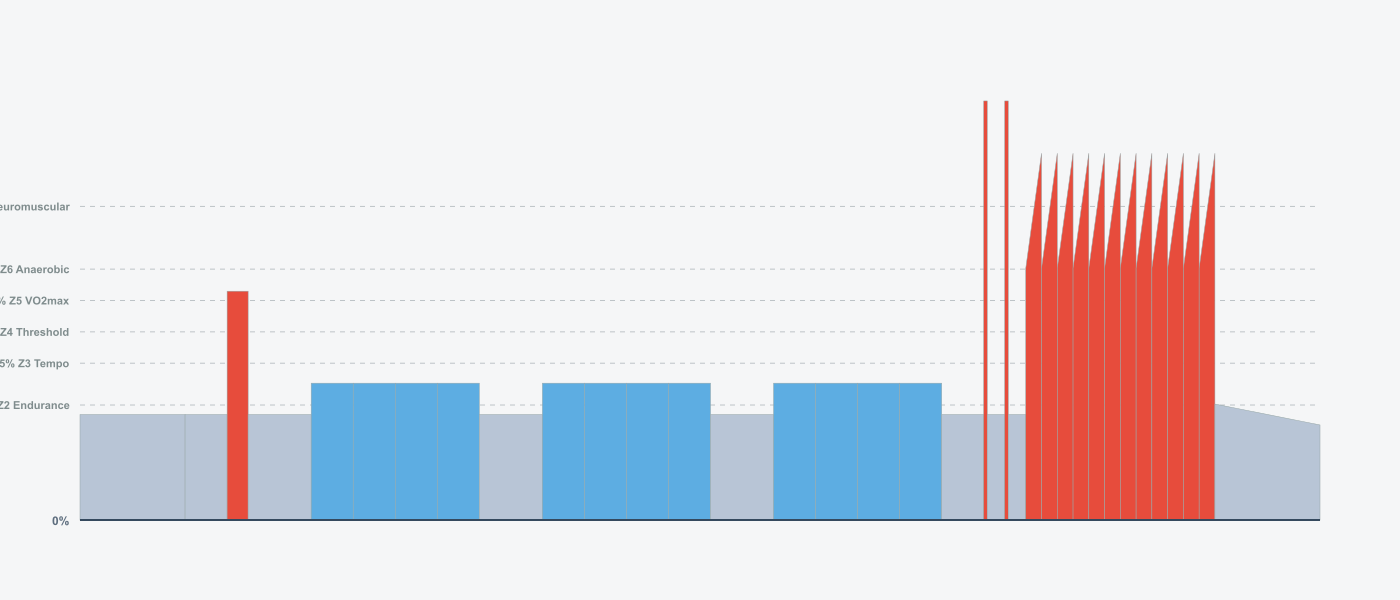
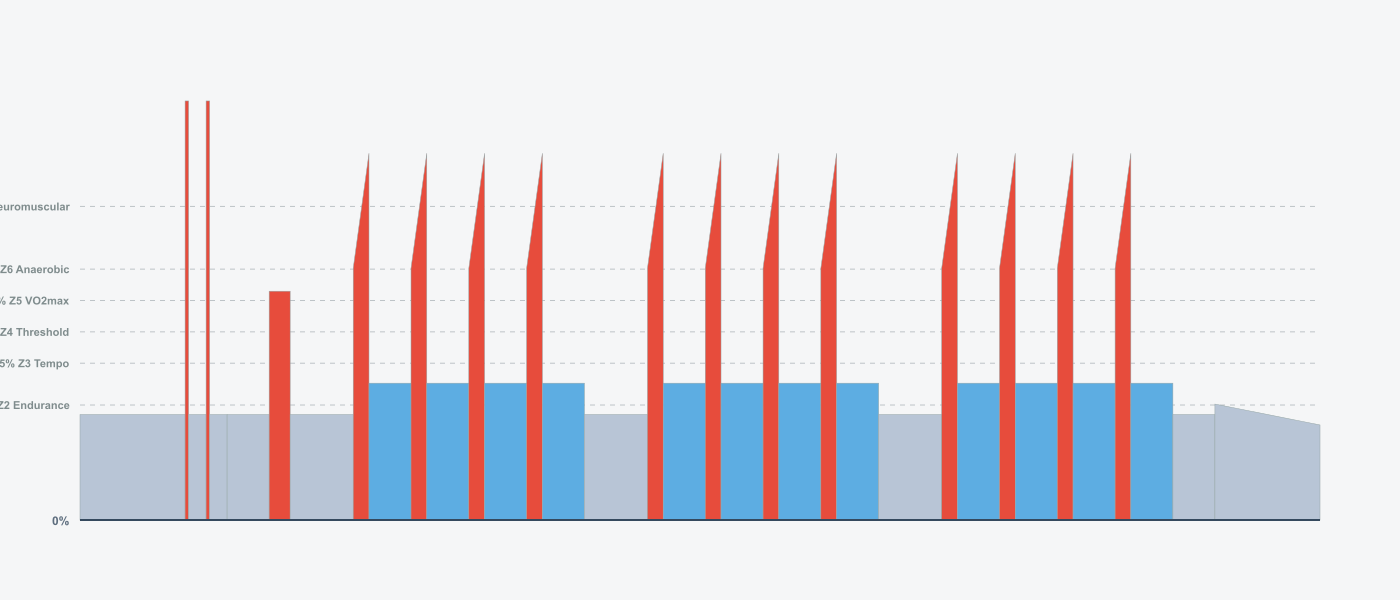
OnDuration# * Why was this change necessary?

Changed region(s): [[0.1229, 0.18, 0.8907, 0.87]]

diff --git a/programs/8_weeks_road_builder/docs/index.html b/programs/8_weeks_road_builder/docs/index.html
@@ -587,7 +587,7 @@
     </div>
 
     <script>
-        const workouts = {"W03-D7-Sunday-Long_Endurance.zwo":{"name":"W3-Sun: Long Endurance 120min","description":"workout.description, 📊 95 TSS · IF 0.69 · 120 min","week":3,"day":7,"dayName":"Sunday","duration":7200,"tss":95,"intensityFactor":0.69,"normalizedPower":0.69},"W06-D6-Saturday-Easy_Z2.zwo":{"name":"W6-Sat: Easy Z2 Ride","description":"workout.description, 📊 46 TSS · IF 0.68 · 60 min","week":6,"day":6,"dayName":"Saturday","duration":3600,"tss":46,"intensityFactor":0.68,"normalizedPower":0.68},"W04-D5-Friday-capacity-pyramid-2.zwo":{"name":"","description":"We are developing from the solid foundation you have created. Think of this session as a progressive pushing workout. \n\nWorking up the pyramid is not too difficult; it is the return leg when it starts to bite! This is pushing your threshold up. The main intervals are 7 x 5 minutes with 3 minutes of easy spinning between efforts, starting just above threshold then settling into high Zone 3 comfortably hard, but hardly comfortable!\n\nHang in and try and keep the power where it needs to be.","week":4,"day":5,"dayName":"Friday","duration":4200,"tss":87,"intensityFactor":0.86,"normalizedPower":0.86},"W07-D5-Friday-extensive-anaerobic-6-x-1min.zwo":{"name":"","description":"The aim today is to produce repeatable, high power intervals. Extensive Anaerobic efforts will improve your ability to recover from high-intensity efforts and repeat them repeatedly. \n\nRecovery is crucial with 6 x 1-minute quality efforts ahead of you!","week":7,"day":5,"dayName":"Friday","duration":3420,"tss":86,"intensityFactor":0.95,"normalizedPower":0.95},"W03-D2-Tuesday-hiit-45sec-1.zwo":{"name":"","description":"With repeated anaerobic bouts of 45sec, you will be improving your ability to process lactate and recover from strenuous efforts. You will also use up vital carbohydrate stores before the final 5min sub-threshold interval. \n\nThis is where the adaptation occurs!","week":3,"day":2,"dayName":"Tuesday","duration":3420,"tss":92,"intensityFactor":0.98,"normalizedPower":0.98},"W01-D5-Friday-neuromuscular-power-surges-2.zwo":{"name":"","description":"Training the neuromuscular system is one of the most effective ways to improve your efficiency. This system includes all the muscles in the body and the nerves that serve them. \n\nIn this workout, we aim to recruit the maximal amount of muscle fibres. We do this by completing a series of short, high powered efforts with slight recovery. As the muscles tire, more are recruited to produce the power. \n\nWith three sets of 10 surges, you will be calling upon every fibre you have to produce the power by the last interval!","week":1,"day":5,"dayName":"Friday","duration":3540,"tss":62,"intensityFactor":0.8,"normalizedPower":0.8},"W02-D6-Saturday-Easy_Z2.zwo":{"name":"W2-Sat: Easy Z2 Ride","description":"workout.description, 📊 46 TSS · IF 0.68 · 60 min","week":2,"day":6,"dayName":"Saturday","duration":3600,"tss":46,"intensityFactor":0.68,"normalizedPower":0.68},"W07-D2-Tuesday-pace-is-the-trick.zwo":{"name":"","description":"We improve your muscular endurance power by completing extended high power intervals?2 different sets of work today.","week":7,"day":2,"dayName":"Tuesday","duration":2780,"tss":74,"intensityFactor":0.98,"normalizedPower":0.98},"W01-D3-Wednesday-Recovery_Easy.zwo":{"name":"W1-Wed: Easy Recovery","description":"workout.description, 📊 30 TSS · IF 0.54 · 60 min","week":1,"day":3,"dayName":"Wednesday","duration":3600,"tss":30,"intensityFactor":0.54,"normalizedPower":0.54},"W07-D3-Wednesday-Recovery_Easy.zwo":{"name":"W7-Wed: Easy Recovery","description":"workout.description, 📊 30 TSS · IF 0.54 · 60 min","week":7,"day":3,"dayName":"Wednesday","duration":3600,"tss":30,"intensityFactor":0.54,"normalizedPower":0.54},"W08-D7-Sunday-Long_Endurance.zwo":{"name":"W8-Sun: Long Endurance 105min","description":"workout.description, 📊 83 TSS · IF 0.69 · 105 min","week":8,"day":7,"dayName":"Sunday","duration":6300,"tss":83,"intensityFactor":0.69,"normalizedPower":0.69},"W06-D7-Sunday-Long_Endurance.zwo":{"name":"W6-Sun: Long Endurance 135min","description":"workout.description, 📊 107 TSS · IF 0.69 · 135 min","week":6,"day":7,"dayName":"Sunday","duration":8100,"tss":107,"intensityFactor":0.69,"normalizedPower":0.69},"W01-D6-Saturday-Easy_Z2.zwo":{"name":"W1-Sat: Easy Z2 Ride","description":"workout.description, 📊 46 TSS · IF 0.68 · 60 min","week":1,"day":6,"dayName":"Saturday","duration":3600,"tss":46,"intensityFactor":0.68,"normalizedPower":0.68},"W02-D5-Friday-anaerobic-endurance-2.zwo":{"name":"","description":"After completing a good warm-up, the principal sets consist of 6 x 60 seconds at Zone 6, with 3min recovery. Anaerobic Capacity involves high cadence and big power, and the ability to resist fatigue. \n\nThroughout each 60sec interval, observe your cadence and heart rate. Is your cadence dropping with fatigue and your heart rate rising?","week":2,"day":5,"dayName":"Friday","duration":4380,"tss":84,"intensityFactor":0.83,"normalizedPower":0.83},"W05-D7-Sunday-Long_Endurance.zwo":{"name":"W5-Sun: Long Endurance 120min","description":"workout.description, 📊 95 TSS · IF 0.69 · 120 min","week":5,"day":7,"dayName":"Sunday","duration":7200,"tss":95,"intensityFactor":0.69,"normalizedPower":0.69},"W06-D3-Wednesday-Recovery_Easy.zwo":{"name":"W6-Wed: Easy Recovery","description":"workout.description, 📊 30 TSS · IF 0.54 · 60 min","week":6,"day":3,"dayName":"Wednesday","duration":3600,"tss":30,"intensityFactor":0.54,"normalizedPower":0.54},"W05-D6-Saturday-Easy_Z2.zwo":{"name":"W5-Sat: Easy Z2 Ride","description":"workout.description, 📊 46 TSS · IF 0.68 · 60 min","week":5,"day":6,"dayName":"Saturday","duration":3600,"tss":46,"intensityFactor":0.68,"normalizedPower":0.68},"W08-D5-Friday-FTP_Test_2x15min.zwo":{"name":"W8-Fri: FTP Test 2x15min (Alternative)","description":"workout.description, 📊 79 TSS · IF 0.85 · 66 min","week":8,"day":5,"dayName":"Friday","duration":3960,"tss":79,"intensityFactor":0.85,"normalizedPower":0.85},"W04-D7-Sunday-Long_Endurance.zwo":{"name":"W4-Sun: Long Endurance 90min (Reduced)","description":"workout.description, 📊 71 TSS · IF 0.69 · 90 min","week":4,"day":7,"dayName":"Sunday","duration":5400,"tss":71,"intensityFactor":0.69,"normalizedPower":0.69},"W06-D2-Tuesday-12min-30-30-s-2.zwo":{"name":"","description":"Another session of intermittent training, performing 30/30s for an accumulated time of 18 min above threshold. \n\nAfter warming up, we complete three sets of 12-minute blocks of 30 seconds above FTP, followed by 30 seconds of recovery. The rest period mustn't be too easy to train the muscle fibres to use the lactate produced as a fuel.","week":6,"day":2,"dayName":"Tuesday","duration":4440,"tss":96,"intensityFactor":0.88,"normalizedPower":0.88},"W01-D2-Tuesday-VO2max_30_30s.zwo":{"name":"W1-Tue: 30/30s Introduction","description":"workout.description, 📊 87 TSS · IF 0.85 · 72 min","week":1,"day":2,"dayName":"Tuesday","duration":4320,"tss":87,"intensityFactor":0.85,"normalizedPower":0.85},"W05-D2-Tuesday-intensive-capacity-2.zwo":{"name":"","description":"The aim today is to produce repeatable, high power intervals. Extensive Anaerobic efforts will improve your ability to recover from high-intensity efforts and repeat them repeatedly. \n\nThe intervals ramp up in power throughout today's session throughout the effort! 12 x 45sec Intensive Capacity intervals with 2min recovery provide a challenging session!","week":5,"day":2,"dayName":"Tuesday","duration":3540,"tss":96,"intensityFactor":0.99,"normalizedPower":0.99},"W03-D6-Saturday-Easy_Z2.zwo":{"name":"W3-Sat: Easy Z2 Ride","description":"workout.description, 📊 46 TSS · IF 0.68 · 60 min","week":3,"day":6,"dayName":"Saturday","duration":3600,"tss":46,"intensityFactor":0.68,"normalizedPower":0.68},"W03-D3-Wednesday-Recovery_Easy.zwo":{"name":"W3-Wed: Easy Recovery","description":"workout.description, 📊 30 TSS · IF 0.54 · 60 min","week":3,"day":3,"dayName":"Wednesday","duration":3600,"tss":30,"intensityFactor":0.54,"normalizedPower":0.54},"W05-D3-Wednesday-Recovery_Easy.zwo":{"name":"W5-Wed: Easy Recovery","description":"workout.description, 📊 30 TSS · IF 0.54 · 60 min","week":5,"day":3,"dayName":"Wednesday","duration":3600,"tss":30,"intensityFactor":0.54,"normalizedPower":0.54},"W07-D6-Saturday-Easy_Z2.zwo":{"name":"W7-Sat: Easy Z2 Ride (Extended)","description":"workout.description, 📊 58 TSS · IF 0.68 · 75 min","week":7,"day":6,"dayName":"Saturday","duration":4500,"tss":58,"intensityFactor":0.68,"normalizedPower":0.68},"W07-D7-Sunday-Long_Endurance.zwo":{"name":"W7-Sun: Long Endurance 150min (PEAK)","description":"workout.description, 📊 120 TSS · IF 0.69 · 150 min","week":7,"day":7,"dayName":"Sunday","duration":9000,"tss":120,"intensityFactor":0.69,"normalizedPower":0.69},"W04-D6-Saturday-Easy_Z2.zwo":{"name":"W4-Sat: Easy Z2 Ride (Reduced)","description":"workout.description, 📊 34 TSS · IF 0.67 · 45 min","week":4,"day":6,"dayName":"Saturday","duration":2700,"tss":34,"intensityFactor":0.67,"normalizedPower":0.67},"W04-D2-Tuesday-30-30-s-anaerobic-3.zwo":{"name":"","description":"After completing a warm-up that includes some high rpm sprints and a 5min threshold effort, the principal sets today include 12 x 30sec efforts @ 115%FTP with 30sec recovery. \n\nBy completing short efforts above threshold, you can accumulate more time in this area than if completed in more prolonged efforts. The short recovery periods also increase oxygen uptake. Particularly towards the end of the set!","week":4,"day":2,"dayName":"Tuesday","duration":4080,"tss":91,"intensityFactor":0.9,"normalizedPower":0.9},"W05-D5-Friday-40-20-s-2.zwo":{"name":"","description":"Building upon your previous 40/20 session, this time, we are increasing the number of intervals before finishing with a 3min VO2max effort. \n\nWe challenge your ability to recover from hard work and measure the final effort produced. \n\n","week":5,"day":5,"dayName":"Friday","duration":3480,"tss":81,"intensityFactor":0.92,"normalizedPower":0.92},"W08-D2-Tuesday-vo2max-climbing-1.zwo":{"name":"","description":"Simulating the demands of climbing at a VO2max intensity, today, you will complete 3 x 3min intervals, followed by 3 x 2min intervals. However, the target cadence is reduced from 85rpm in the 3min intervals to 70rpm in the 2min intervals. \n\nComplete the 3min intervals seated, and the 2min intervals are standing if possible.","week":8,"day":2,"dayName":"Tuesday","duration":3600,"tss":70,"intensityFactor":0.84,"normalizedPower":0.84},"W01-D7-Sunday-Long_Endurance.zwo":{"name":"W1-Sun: Long Endurance 90min","description":"workout.description, 📊 71 TSS · IF 0.69 · 90 min","week":1,"day":7,"dayName":"Sunday","duration":5400,"tss":71,"intensityFactor":0.69,"normalizedPower":0.69},"W04-D3-Wednesday-Recovery_Easy.zwo":{"name":"W4-Wed: Easy Recovery","description":"workout.description, 📊 30 TSS · IF 0.54 · 60 min","week":4,"day":3,"dayName":"Wednesday","duration":3600,"tss":30,"intensityFactor":0.54,"normalizedPower":0.54},"W03-D5-Friday-power-intervals-1.zwo":{"name":"","description":"Today's session focuses on improving your ability to produce power. To be able to turn a big gear faster. Completing high power intervals with slightly less cadence increases the torque applied to the crank, boosting muscular endurance power. \n\nTwo sets of (3 x 2.5min) with 3min recovery. However, the initial high power 30sec effort has a target cadence of 85rpm before completing the remaining 2min at a self-selected cadence.","week":3,"day":5,"dayName":"Friday","duration":3360,"tss":92,"intensityFactor":0.99,"normalizedPower":0.99},"W02-D7-Sunday-Long_Endurance.zwo":{"name":"W2-Sun: Long Endurance 105min","description":"workout.description, 📊 83 TSS · IF 0.69 · 105 min","week":2,"day":7,"dayName":"Sunday","duration":6300,"tss":83,"intensityFactor":0.69,"normalizedPower":0.69},"W08-D5-Friday-FTP_Test_20min.zwo":{"name":"W8-Fri: FTP Test 20min","description":"workout.description, 📊 62 TSS · IF 0.83 · 54 min","week":8,"day":5,"dayName":"Friday","duration":3240,"tss":62,"intensityFactor":0.83,"normalizedPower":0.83},"W02-D3-Wednesday-Recovery_Easy.zwo":{"name":"W2-Wed: Easy Recovery","description":"workout.description, 📊 30 TSS · IF 0.54 · 60 min","week":2,"day":3,"dayName":"Wednesday","duration":3600,"tss":30,"intensityFactor":0.54,"normalizedPower":0.54},"W06-D5-Friday-power-intervals-3.zwo":{"name":"","description":"Today's session focuses on improving your ability to produce power. To be able to turn a big gear faster. Completing high power intervals with slightly less cadence increases the torque applied to the crank, boosting muscular endurance power. \n\nTwo different sets of work today, with the 1st set involving shorter 2min intervals that begin with 30sec of high power / low rpm effort. The 2nd set includes 4 x 2min intervals decreasing power across the intervals.","week":6,"day":5,"dayName":"Friday","duration":3480,"tss":104,"intensityFactor":1.04,"normalizedPower":1.04},"W02-D2-Tuesday-controlled-30-30-s-2.zwo":{"name":"","description":"These Controlled 30/30 efforts are completed at a power just below your Maximal Aerobic Power (MAP). By splitting up into 30 seconds, with 30 seconds of recovery, you can accumulate more time at this intensity than you would if doing it as a continuous effort. \n\nEight repetitions this week, building on last week's great session!","week":2,"day":2,"dayName":"Tuesday","duration":3540,"tss":84,"intensityFactor":0.92,"normalizedPower":0.92},"W08-D3-Wednesday-Recovery_Easy.zwo":{"name":"W8-Wed: Easy Recovery","description":"workout.description, 📊 30 TSS · IF 0.54 · 60 min","week":8,"day":3,"dayName":"Wednesday","duration":3600,"tss":30,"intensityFactor":0.54,"normalizedPower":0.54}};
+        const workouts = {"W03-D7-Sunday-Long_Endurance.zwo":{"name":{"_":"W3-Sun: Long Endurance 120min","$$":[{"#name":"__text__","_":"W3-Sun: Long Endurance 120min"}]},"description":{"_":"workout.description, 📊 95 TSS · IF 0.69 · 120 min","$$":[{"#name":"__text__","_":"workout.description, 📊 95 TSS · IF 0.69 · 120 min"}]},"week":3,"day":7,"dayName":"Sunday","duration":7200,"tss":95,"intensityFactor":0.69,"normalizedPower":0.69},"W06-D6-Saturday-Easy_Z2.zwo":{"name":{"_":"W6-Sat: Easy Z2 Ride","$$":[{"#name":"__text__","_":"W6-Sat: Easy Z2 Ride"}]},"description":{"_":"workout.description, 📊 46 TSS · IF 0.68 · 60 min","$$":[{"#name":"__text__","_":"workout.description, 📊 46 TSS · IF 0.68 · 60 min"}]},"week":6,"day":6,"dayName":"Saturday","duration":3600,"tss":46,"intensityFactor":0.68,"normalizedPower":0.68},"W04-D5-Friday-capacity-pyramid-2.zwo":{"name":"","description":{"_":"We are developing from the solid foundation you have created. Think of this session as a progressive pushing workout. \n\nWorking up the pyramid is not too difficult; it is the return leg when it starts to bite! This is pushing your threshold up. The main intervals are 7 x 5 minutes with 3 minutes of easy spinning between efforts, starting just above threshold then settling into high Zone 3 comfortably hard, but hardly comfortable!\n\nHang in and try and keep the power where it needs to be.","$$":[{"#name":"__text__","_":"We are developing from the solid foundation you have created. Think of this session as a progressive pushing workout. \n\nWorking up the pyramid is not too difficult; it is the return leg when it starts to bite! This is pushing your threshold up. The main intervals are 7 x 5 minutes with 3 minutes of easy spinning between efforts, starting just above threshold then settling into high Zone 3 comfortably hard, but hardly comfortable!\n\nHang in and try and keep the power where it needs to be."}]},"week":4,"day":5,"dayName":"Friday","duration":4200,"tss":87,"intensityFactor":0.86,"normalizedPower":0.86},"W07-D5-Friday-extensive-anaerobic-6-x-1min.zwo":{"name":"","description":{"_":"The aim today is to produce repeatable, high power intervals. Extensive Anaerobic efforts will improve your ability to recover from high-intensity efforts and repeat them repeatedly. \n\nRecovery is crucial with 6 x 1-minute quality efforts ahead of you!","$$":[{"#name":"__text__","_":"The aim today is to produce repeatable, high power intervals. Extensive Anaerobic efforts will improve your ability to recover from high-intensity efforts and repeat them repeatedly. \n\nRecovery is crucial with 6 x 1-minute quality efforts ahead of you!"}]},"week":7,"day":5,"dayName":"Friday","duration":3420,"tss":86,"intensityFactor":0.95,"normalizedPower":0.95},"W03-D2-Tuesday-hiit-45sec-1.zwo":{"name":"","description":{"_":"With repeated anaerobic bouts of 45sec, you will be improving your ability to process lactate and recover from strenuous efforts. You will also use up vital carbohydrate stores before the final 5min sub-threshold interval. \n\nThis is where the adaptation occurs!","$$":[{"#name":"__text__","_":"With repeated anaerobic bouts of 45sec, you will be improving your ability to process lactate and recover from strenuous efforts. You will also use up vital carbohydrate stores before the final 5min sub-threshold interval. \n\nThis is where the adaptation occurs!"}]},"week":3,"day":2,"dayName":"Tuesday","duration":3420,"tss":92,"intensityFactor":0.98,"normalizedPower":0.98},"W01-D5-Friday-neuromuscular-power-surges-2.zwo":{"name":"","description":{"_":"Training the neuromuscular system is one of the most effective ways to improve your efficiency. This system includes all the muscles in the body and the nerves that serve them. \n\nIn this workout, we aim to recruit the maximal amount of muscle fibres. We do this by completing a series of short, high powered efforts with slight recovery. As the muscles tire, more are recruited to produce the power. \n\nWith three sets of 10 surges, you will be calling upon every fibre you have to produce the power by the last interval!","$$":[{"#name":"__text__","_":"Training the neuromuscular system is one of the most effective ways to improve your efficiency. This system includes all the muscles in the body and the nerves that serve them. \n\nIn this workout, we aim to recruit the maximal amount of muscle fibres. We do this by completing a series of short, high powered efforts with slight recovery. As the muscles tire, more are recruited to produce the power. \n\nWith three sets of 10 surges, you will be calling upon every fibre you have to produce the power by the last interval!"}]},"week":1,"day":5,"dayName":"Friday","duration":3540,"tss":62,"intensityFactor":0.8,"normalizedPower":0.8},"W02-D6-Saturday-Easy_Z2.zwo":{"name":{"_":"W2-Sat: Easy Z2 Ride","$$":[{"#name":"__text__","_":"W2-Sat: Easy Z2 Ride"}]},"description":{"_":"workout.description, 📊 46 TSS · IF 0.68 · 60 min","$$":[{"#name":"__text__","_":"workout.description, 📊 46 TSS · IF 0.68 · 60 min"}]},"week":2,"day":6,"dayName":"Saturday","duration":3600,"tss":46,"intensityFactor":0.68,"normalizedPower":0.68},"W07-D2-Tuesday-pace-is-the-trick.zwo":{"name":"","description":{"_":"We improve your muscular endurance power by completing extended high power intervals?2 different sets of work today.","$$":[{"#name":"__text__","_":"We improve your muscular endurance power by completing extended high power intervals?2 different sets of work today."}]},"week":7,"day":2,"dayName":"Tuesday","duration":2780,"tss":74,"intensityFactor":0.98,"normalizedPower":0.98},"W01-D3-Wednesday-Recovery_Easy.zwo":{"name":{"_":"W1-Wed: Easy Recovery","$$":[{"#name":"__text__","_":"W1-Wed: Easy Recovery"}]},"description":{"_":"workout.description, 📊 30 TSS · IF 0.54 · 60 min","$$":[{"#name":"__text__","_":"workout.description, 📊 30 TSS · IF 0.54 · 60 min"}]},"week":1,"day":3,"dayName":"Wednesday","duration":3600,"tss":30,"intensityFactor":0.54,"normalizedPower":0.54},"W07-D3-Wednesday-Recovery_Easy.zwo":{"name":{"_":"W7-Wed: Easy Recovery","$$":[{"#name":"__text__","_":"W7-Wed: Easy Recovery"}]},"description":{"_":"workout.description, 📊 30 TSS · IF 0.54 · 60 min","$$":[{"#name":"__text__","_":"workout.description, 📊 30 TSS · IF 0.54 · 60 min"}]},"week":7,"day":3,"dayName":"Wednesday","duration":3600,"tss":30,"intensityFactor":0.54,"normalizedPower":0.54},"W08-D7-Sunday-Long_Endurance.zwo":{"name":{"_":"W8-Sun: Long Endurance 105min","$$":[{"#name":"__text__","_":"W8-Sun: Long Endurance 105min"}]},"description":{"_":"workout.description, 📊 83 TSS · IF 0.69 · 105 min","$$":[{"#name":"__text__","_":"workout.description, 📊 83 TSS · IF 0.69 · 105 min"}]},"week":8,"day":7,"dayName":"Sunday","duration":6300,"tss":83,"intensityFactor":0.69,"normalizedPower":0.69},"W06-D7-Sunday-Long_Endurance.zwo":{"name":{"_":"W6-Sun: Long Endurance 135min","$$":[{"#name":"__text__","_":"W6-Sun: Long Endurance 135min"}]},"description":{"_":"workout.description, 📊 107 TSS · IF 0.69 · 135 min","$$":[{"#name":"__text__","_":"workout.description, 📊 107 TSS · IF 0.69 · 135 min"}]},"week":6,"day":7,"dayName":"Sunday","duration":8100,"tss":107,"intensityFactor":0.69,"normalizedPower":0.69},"W01-D6-Saturday-Easy_Z2.zwo":{"name":{"_":"W1-Sat: Easy Z2 Ride","$$":[{"#name":"__text__","_":"W1-Sat: Easy Z2 Ride"}]},"description":{"_":"workout.description, 📊 46 TSS · IF 0.68 · 60 min","$$":[{"#name":"__text__","_":"workout.description, 📊 46 TSS · IF 0.68 · 60 min"}]},"week":1,"day":6,"dayName":"Saturday","duration":3600,"tss":46,"intensityFactor":0.68,"normalizedPower":0.68},"W02-D5-Friday-anaerobic-endurance-2.zwo":{"name":"","description":{"_":"After completing a good warm-up, the principal sets consist of 6 x 60 seconds at Zone 6, with 3min recovery. Anaerobic Capacity involves high cadence and big power, and the ability to resist fatigue. \n\nThroughout each 60sec interval, observe your cadence and heart rate. Is your cadence dropping with fatigue and your heart rate rising?","$$":[{"#name":"__text__","_":"After completing a good warm-up, the principal sets consist of 6 x 60 seconds at Zone 6, with 3min recovery. Anaerobic Capacity involves high cadence and big power, and the ability to resist fatigue. \n\nThroughout each 60sec interval, observe your cadence and heart rate. Is your cadence dropping with fatigue and your heart rate rising?"}]},"week":2,"day":5,"dayName":"Friday","duration":4380,"tss":84,"intensityFactor":0.83,"normalizedPower":0.83},"W05-D7-Sunday-Long_Endurance.zwo":{"name":{"_":"W5-Sun: Long Endurance 120min","$$":[{"#name":"__text__","_":"W5-Sun: Long Endurance 120min"}]},"description":{"_":"workout.description, 📊 95 TSS · IF 0.69 · 120 min","$$":[{"#name":"__text__","_":"workout.description, 📊 95 TSS · IF 0.69 · 120 min"}]},"week":5,"day":7,"dayName":"Sunday","duration":7200,"tss":95,"intensityFactor":0.69,"normalizedPower":0.69},"W06-D3-Wednesday-Recovery_Easy.zwo":{"name":{"_":"W6-Wed: Easy Recovery","$$":[{"#name":"__text__","_":"W6-Wed: Easy Recovery"}]},"description":{"_":"workout.description, 📊 30 TSS · IF 0.54 · 60 min","$$":[{"#name":"__text__","_":"workout.description, 📊 30 TSS · IF 0.54 · 60 min"}]},"week":6,"day":3,"dayName":"Wednesday","duration":3600,"tss":30,"intensityFactor":0.54,"normalizedPower":0.54},"W05-D6-Saturday-Easy_Z2.zwo":{"name":{"_":"W5-Sat: Easy Z2 Ride","$$":[{"#name":"__text__","_":"W5-Sat: Easy Z2 Ride"}]},"description":{"_":"workout.description, 📊 46 TSS · IF 0.68 · 60 min","$$":[{"#name":"__text__","_":"workout.description, 📊 46 TSS · IF 0.68 · 60 min"}]},"week":5,"day":6,"dayName":"Saturday","duration":3600,"tss":46,"intensityFactor":0.68,"normalizedPower":0.68},"W08-D5-Friday-FTP_Test_2x15min.zwo":{"name":{"_":"W8-Fri: FTP Test 2x15min (Alternative)","$$":[{"#name":"__text__","_":"W8-Fri: FTP Test 2x15min (Alternative)"}]},"description":{"_":"workout.description, 📊 79 TSS · IF 0.85 · 66 min","$$":[{"#name":"__text__","_":"workout.description, 📊 79 TSS · IF 0.85 · 66 min"}]},"week":8,"day":5,"dayName":"Friday","duration":3960,"tss":79,"intensityFactor":0.85,"normalizedPower":0.85},"W04-D7-Sunday-Long_Endurance.zwo":{"name":{"_":"W4-Sun: Long Endurance 90min (Reduced)","$$":[{"#name":"__text__","_":"W4-Sun: Long Endurance 90min (Reduced)"}]},"description":{"_":"workout.description, 📊 71 TSS · IF 0.69 · 90 min","$$":[{"#name":"__text__","_":"workout.description, 📊 71 TSS · IF 0.69 · 90 min"}]},"week":4,"day":7,"dayName":"Sunday","duration":5400,"tss":71,"intensityFactor":0.69,"normalizedPower":0.69},"W06-D2-Tuesday-12min-30-30-s-2.zwo":{"name":"","description":{"_":"Another session of intermittent training, performing 30/30s for an accumulated time of 18 min above threshold. \n\nAfter warming up, we complete three sets of 12-minute blocks of 30 seconds above FTP, followed by 30 seconds of recovery. The rest period mustn't be too easy to train the muscle fibres to use the lactate produced as a fuel.","$$":[{"#name":"__text__","_":"Another session of intermittent training, performing 30/30s for an accumulated time of 18 min above threshold. \n\nAfter warming up, we complete three sets of 12-minute blocks of 30 seconds above FTP, followed by 30 seconds of recovery. The rest period mustn't be too easy to train the muscle fibres to use the lactate produced as a fuel."}]},"week":6,"day":2,"dayName":"Tuesday","duration":4440,"tss":96,"intensityFactor":0.88,"normalizedPower":0.88},"W01-D2-Tuesday-VO2max_30_30s.zwo":{"name":{"_":"W1-Tue: 30/30s Introduction","$$":[{"#name":"__text__","_":"W1-Tue: 30/30s Introduction"}]},"description":{"_":"workout.description, 📊 87 TSS · IF 0.85 · 72 min","$$":[{"#name":"__text__","_":"workout.description, 📊 87 TSS · IF 0.85 · 72 min"}]},"week":1,"day":2,"dayName":"Tuesday","duration":4320,"tss":87,"intensityFactor":0.85,"normalizedPower":0.85},"W05-D2-Tuesday-intensive-capacity-2.zwo":{"name":"","description":{"_":"The aim today is to produce repeatable, high power intervals. Extensive Anaerobic efforts will improve your ability to recover from high-intensity efforts and repeat them repeatedly. \n\nThe intervals ramp up in power throughout today's session throughout the effort! 12 x 45sec Intensive Capacity intervals with 2min recovery provide a challenging session!","$$":[{"#name":"__text__","_":"The aim today is to produce repeatable, high power intervals. Extensive Anaerobic efforts will improve your ability to recover from high-intensity efforts and repeat them repeatedly. \n\nThe intervals ramp up in power throughout today's session throughout the effort! 12 x 45sec Intensive Capacity intervals with 2min recovery provide a challenging session!"}]},"week":5,"day":2,"dayName":"Tuesday","duration":3540,"tss":96,"intensityFactor":0.99,"normalizedPower":0.99},"W03-D6-Saturday-Easy_Z2.zwo":{"name":{"_":"W3-Sat: Easy Z2 Ride","$$":[{"#name":"__text__","_":"W3-Sat: Easy Z2 Ride"}]},"description":{"_":"workout.description, 📊 46 TSS · IF 0.68 · 60 min","$$":[{"#name":"__text__","_":"workout.description, 📊 46 TSS · IF 0.68 · 60 min"}]},"week":3,"day":6,"dayName":"Saturday","duration":3600,"tss":46,"intensityFactor":0.68,"normalizedPower":0.68},"W03-D3-Wednesday-Recovery_Easy.zwo":{"name":{"_":"W3-Wed: Easy Recovery","$$":[{"#name":"__text__","_":"W3-Wed: Easy Recovery"}]},"description":{"_":"workout.description, 📊 30 TSS · IF 0.54 · 60 min","$$":[{"#name":"__text__","_":"workout.description, 📊 30 TSS · IF 0.54 · 60 min"}]},"week":3,"day":3,"dayName":"Wednesday","duration":3600,"tss":30,"intensityFactor":0.54,"normalizedPower":0.54},"W05-D3-Wednesday-Recovery_Easy.zwo":{"name":{"_":"W5-Wed: Easy Recovery","$$":[{"#name":"__text__","_":"W5-Wed: Easy Recovery"}]},"description":{"_":"workout.description, 📊 30 TSS · IF 0.54 · 60 min","$$":[{"#name":"__text__","_":"workout.description, 📊 30 TSS · IF 0.54 · 60 min"}]},"week":5,"day":3,"dayName":"Wednesday","duration":3600,"tss":30,"intensityFactor":0.54,"normalizedPower":0.54},"W07-D6-Saturday-Easy_Z2.zwo":{"name":{"_":"W7-Sat: Easy Z2 Ride (Extended)","$$":[{"#name":"__text__","_":"W7-Sat: Easy Z2 Ride (Extended)"}]},"description":{"_":"workout.description, 📊 58 TSS · IF 0.68 · 75 min","$$":[{"#name":"__text__","_":"workout.description, 📊 58 TSS · IF 0.68 · 75 min"}]},"week":7,"day":6,"dayName":"Saturday","duration":4500,"tss":58,"intensityFactor":0.68,"normalizedPower":0.68},"W07-D7-Sunday-Long_Endurance.zwo":{"name":{"_":"W7-Sun: Long Endurance 150min (PEAK)","$$":[{"#name":"__text__","_":"W7-Sun: Long Endurance 150min (PEAK)"}]},"description":{"_":"workout.description, 📊 120 TSS · IF 0.69 · 150 min","$$":[{"#name":"__text__","_":"workout.description, 📊 120 TSS · IF 0.69 · 150 min"}]},"week":7,"day":7,"dayName":"Sunday","duration":9000,"tss":120,"intensityFactor":0.69,"normalizedPower":0.69},"W04-D6-Saturday-Easy_Z2.zwo":{"name":{"_":"W4-Sat: Easy Z2 Ride (Reduced)","$$":[{"#name":"__text__","_":"W4-Sat: Easy Z2 Ride (Reduced)"}]},"description":{"_":"workout.description, 📊 34 TSS · IF 0.67 · 45 min","$$":[{"#name":"__text__","_":"workout.description, 📊 34 TSS · IF 0.67 · 45 min"}]},"week":4,"day":6,"dayName":"Saturday","duration":2700,"tss":34,"intensityFactor":0.67,"normalizedPower":0.67},"W04-D2-Tuesday-30-30-s-anaerobic-3.zwo":{"name":"","description":{"_":"After completing a warm-up that includes some high rpm sprints and a 5min threshold effort, the principal sets today include 12 x 30sec efforts @ 115%FTP with 30sec recovery. \n\nBy completing short efforts above threshold, you can accumulate more time in this area than if completed in more prolonged efforts. The short recovery periods also increase oxygen uptake. Particularly towards the end of the set!","$$":[{"#name":"__text__","_":"After completing a warm-up that includes some high rpm sprints and a 5min threshold effort, the principal sets today include 12 x 30sec efforts @ 115%FTP with 30sec recovery. \n\nBy completing short efforts above threshold, you can accumulate more time in this area than if completed in more prolonged efforts. The short recovery periods also increase oxygen uptake. Particularly towards the end of the set!"}]},"week":4,"day":2,"dayName":"Tuesday","duration":4080,"tss":91,"intensityFactor":0.9,"normalizedPower":0.9},"W05-D5-Friday-40-20-s-2.zwo":{"name":"","description":{"_":"Building upon your previous 40/20 session, this time, we are increasing the number of intervals before finishing with a 3min VO2max effort. \n\nWe challenge your ability to recover from hard work and measure the final effort produced. \n\n","$$":[{"#name":"__text__","_":"Building upon your previous 40/20 session, this time, we are increasing the number of intervals before finishing with a 3min VO2max effort. \n\nWe challenge your ability to recover from hard work and measure the final effort produced. \n\n"}]},"week":5,"day":5,"dayName":"Friday","duration":3480,"tss":81,"intensityFactor":0.92,"normalizedPower":0.92},"W08-D2-Tuesday-vo2max-climbing-1.zwo":{"name":"","description":{"_":"Simulating the demands of climbing at a VO2max intensity, today, you will complete 3 x 3min intervals, followed by 3 x 2min intervals. However, the target cadence is reduced from 85rpm in the 3min intervals to 70rpm in the 2min intervals. \n\nComplete the 3min intervals seated, and the 2min intervals are standing if possible.","$$":[{"#name":"__text__","_":"Simulating the demands of climbing at a VO2max intensity, today, you will complete 3 x 3min intervals, followed by 3 x 2min intervals. However, the target cadence is reduced from 85rpm in the 3min intervals to 70rpm in the 2min intervals. \n\nComplete the 3min intervals seated, and the 2min intervals are standing if possible."}]},"week":8,"day":2,"dayName":"Tuesday","duration":3600,"tss":70,"intensityFactor":0.84,"normalizedPower":0.84},"W01-D7-Sunday-Long_Endurance.zwo":{"name":{"_":"W1-Sun: Long Endurance 90min","$$":[{"#name":"__text__","_":"W1-Sun: Long Endurance 90min"}]},"description":{"_":"workout.description, 📊 71 TSS · IF 0.69 · 90 min","$$":[{"#name":"__text__","_":"workout.description, 📊 71 TSS · IF 0.69 · 90 min"}]},"week":1,"day":7,"dayName":"Sunday","duration":5400,"tss":71,"intensityFactor":0.69,"normalizedPower":0.69},"W04-D3-Wednesday-Recovery_Easy.zwo":{"name":{"_":"W4-Wed: Easy Recovery","$$":[{"#name":"__text__","_":"W4-Wed: Easy Recovery"}]},"description":{"_":"workout.description, 📊 30 TSS · IF 0.54 · 60 min","$$":[{"#name":"__text__","_":"workout.description, 📊 30 TSS · IF 0.54 · 60 min"}]},"week":4,"day":3,"dayName":"Wednesday","duration":3600,"tss":30,"intensityFactor":0.54,"normalizedPower":0.54},"W03-D5-Friday-power-intervals-1.zwo":{"name":"","description":{"_":"Today's session focuses on improving your ability to produce power. To be able\n        to turn a big gear faster. Completing high power intervals with slightly less cadence\n        increases the torque applied to the crank, boosting muscular endurance power.\n\n        Two sets of (3 x 2.5min) with 3min recovery. However, the initial high power 30sec effort\n        has a target cadence of 85rpm before completing the remaining 2min at a self-selected\n        cadence.","$$":[{"#name":"__text__","_":"Today's session focuses on improving your ability to produce power. To be able\n        to turn a big gear faster. Completing high power intervals with slightly less cadence\n        increases the torque applied to the crank, boosting muscular endurance power.\n\n        Two sets of (3 x 2.5min) with 3min recovery. However, the initial high power 30sec effort\n        has a target cadence of 85rpm before completing the remaining 2min at a self-selected\n        cadence."}]},"week":3,"day":5,"dayName":"Friday","duration":3360,"tss":92,"intensityFactor":0.99,"normalizedPower":0.99},"W02-D7-Sunday-Long_Endurance.zwo":{"name":{"_":"W2-Sun: Long Endurance 105min","$$":[{"#name":"__text__","_":"W2-Sun: Long Endurance 105min"}]},"description":{"_":"workout.description, 📊 83 TSS · IF 0.69 · 105 min","$$":[{"#name":"__text__","_":"workout.description, 📊 83 TSS · IF 0.69 · 105 min"}]},"week":2,"day":7,"dayName":"Sunday","duration":6300,"tss":83,"intensityFactor":0.69,"normalizedPower":0.69},"W08-D5-Friday-FTP_Test_20min.zwo":{"name":{"_":"W8-Fri: FTP Test 20min","$$":[{"#name":"__text__","_":"W8-Fri: FTP Test 20min"}]},"description":{"_":"workout.description, 📊 62 TSS · IF 0.83 · 54 min","$$":[{"#name":"__text__","_":"workout.description, 📊 62 TSS · IF 0.83 · 54 min"}]},"week":8,"day":5,"dayName":"Friday","duration":3240,"tss":62,"intensityFactor":0.83,"normalizedPower":0.83},"W02-D3-Wednesday-Recovery_Easy.zwo":{"name":{"_":"W2-Wed: Easy Recovery","$$":[{"#name":"__text__","_":"W2-Wed: Easy Recovery"}]},"description":{"_":"workout.description, 📊 30 TSS · IF 0.54 · 60 min","$$":[{"#name":"__text__","_":"workout.description, 📊 30 TSS · IF 0.54 · 60 min"}]},"week":2,"day":3,"dayName":"Wednesday","duration":3600,"tss":30,"intensityFactor":0.54,"normalizedPower":0.54},"W06-D5-Friday-power-intervals-3.zwo":{"name":"","description":{"_":"Today's session focuses on improving your ability to produce power. To be able to turn a big gear faster. Completing high power intervals with slightly less cadence increases the torque applied to the crank, boosting muscular endurance power. \n\nTwo different sets of work today, with the 1st set involving shorter 2min intervals that begin with 30sec of high power / low rpm effort. The 2nd set includes 4 x 2min intervals decreasing power across the intervals.","$$":[{"#name":"__text__","_":"Today's session focuses on improving your ability to produce power. To be able to turn a big gear faster. Completing high power intervals with slightly less cadence increases the torque applied to the crank, boosting muscular endurance power. \n\nTwo different sets of work today, with the 1st set involving shorter 2min intervals that begin with 30sec of high power / low rpm effort. The 2nd set includes 4 x 2min intervals decreasing power across the intervals."}]},"week":6,"day":5,"dayName":"Friday","duration":3480,"tss":104,"intensityFactor":1.04,"normalizedPower":1.04},"W02-D2-Tuesday-controlled-30-30-s-2.zwo":{"name":"","description":{"_":"These Controlled 30/30 efforts are completed at a power just below your Maximal Aerobic Power (MAP). By splitting up into 30 seconds, with 30 seconds of recovery, you can accumulate more time at this intensity than you would if doing it as a continuous effort. \n\nEight repetitions this week, building on last week's great session!","$$":[{"#name":"__text__","_":"These Controlled 30/30 efforts are completed at a power just below your Maximal Aerobic Power (MAP). By splitting up into 30 seconds, with 30 seconds of recovery, you can accumulate more time at this intensity than you would if doing it as a continuous effort. \n\nEight repetitions this week, building on last week's great session!"}]},"week":2,"day":2,"dayName":"Tuesday","duration":3540,"tss":84,"intensityFactor":0.92,"normalizedPower":0.92},"W08-D3-Wednesday-Recovery_Easy.zwo":{"name":{"_":"W8-Wed: Easy Recovery","$$":[{"#name":"__text__","_":"W8-Wed: Easy Recovery"}]},"description":{"_":"workout.description, 📊 30 TSS · IF 0.54 · 60 min","$$":[{"#name":"__text__","_":"workout.description, 📊 30 TSS · IF 0.54 · 60 min"}]},"week":8,"day":3,"dayName":"Wednesday","duration":3600,"tss":30,"intensityFactor":0.54,"normalizedPower":0.54}};
 
         function showWorkout(filename) {
             const workout = workouts[filename];

diff --git a/lib/zwoParser.ts b/lib/zwoParser.ts
@@ -42,8 +42,12 @@ export async function parseZWOFile(filepath: string): Promise<ParsedWorkout> {
   const content = fs.readFileSync(filepath, 'utf-8');
   const filename = path.basename(filepath);
 
-  // Parse XML
-  const result = await parseXML(content);
+  // Parse XML with options to preserve element order
+  const result = await parseXML(content, {
+    explicitChildren: true,
+    preserveChildrenOrder: true,
+    charsAsChildren: true,
+  });
   const workoutFile = result.workout_file;
 
   // Extract basic metadata
@@ -88,18 +92,32 @@ export async function parseZWOFile(filepath: string): Promise<ParsedWorkout> {
 function extractSegments(workout: XMLWorkout): Segment[] {
   const segments: Segment[] = [];
 
-  // Get all child elements in order
-  const elements = Object.keys(workout).flatMap((key) => {
-    if (key === '$') return []; // Skip attributes
-    const items = workout[key];
-    if (!items) return [];
-    return items.map((elem: XMLSegmentData) => ({ type: key, data: elem }));
-  });
+  // Use $$ property to get children in order (when preserveChildrenOrder is enabled)
+  const orderedChildren = (workout as any).$$;
 
-  for (const elem of elements) {
-    const segment = parseSegment(elem.type, elem.data);
-    if (segment) {
-      segments.push(segment);
+  if (orderedChildren && Array.isArray(orderedChildren)) {
+    // Process children in the order they appear in the XML
+    for (const child of orderedChildren) {
+      const type = child['#name'];
+      const segment = parseSegment(type, child);
+      if (segment) {
+        segments.push(segment);
+      }
+    }
+  } else {
+    // Fallback to old method if $$ is not available
+    const elements = Object.keys(workout).flatMap((key) => {
+      if (key === '$' || key === '$$') return []; // Skip attributes and ordered children
+      const items = workout[key];
+      if (!items) return [];
+      return items.map((elem: XMLSegmentData) => ({ type: key, data: elem }));
+    });
+
+    for (const elem of elements) {
+      const segment = parseSegment(elem.type, elem.data);
+      if (segment) {
+        segments.push(segment);
+      }
     }
   }
 
